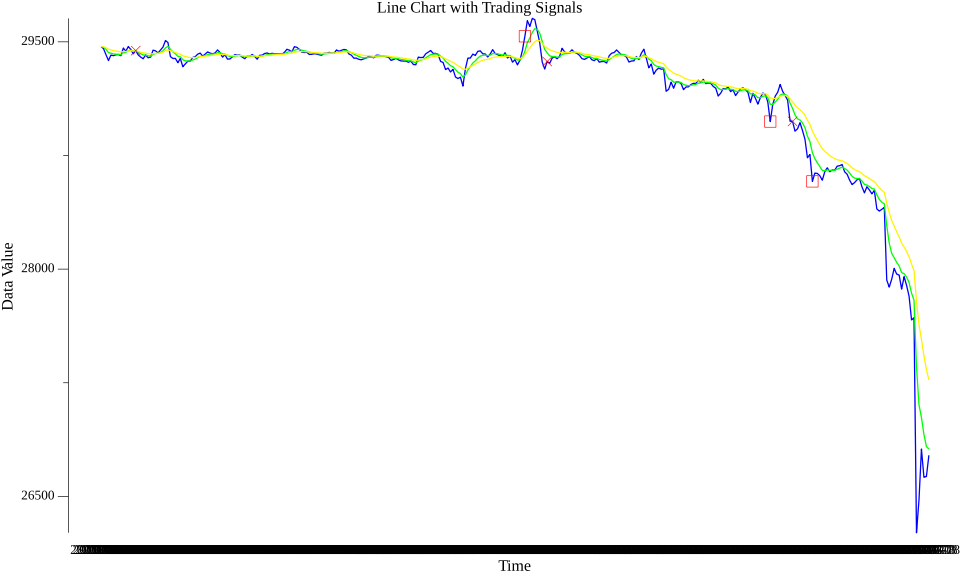
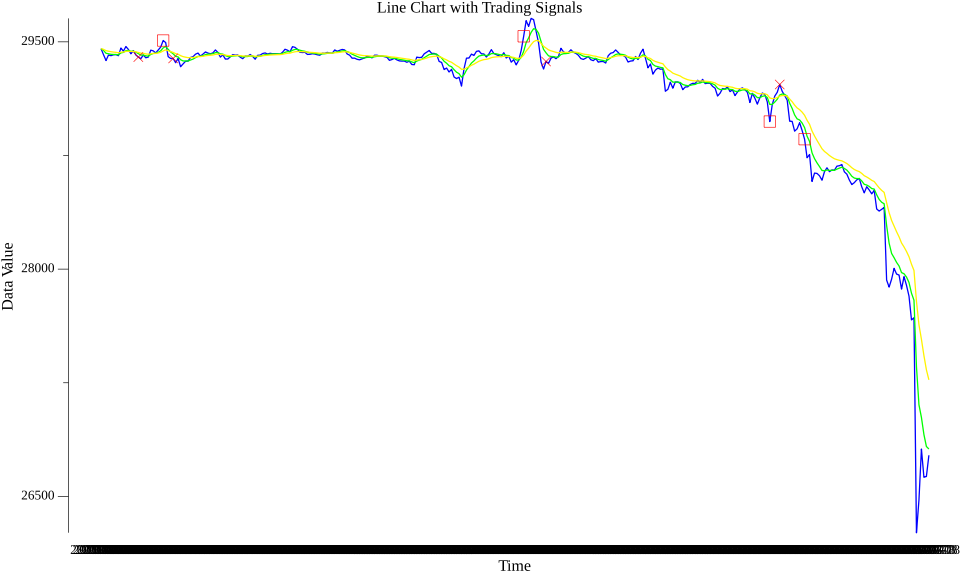
intro StopLossTriger Buy Str

Changed region(s): [[0.2812, 0.0312, 0.75, 0.1562], [0.75, 0.1562, 0.9375, 0.4375], [0.0938, 0.0625, 0.2812, 0.125]]

diff --git a/strategies/strategies.go b/strategies/strategies.go
@@ -47,6 +47,7 @@ type TradingSystem struct {
 	TradeProfitLoss float64
 	TradeCount int
 	EnableStoploss bool
+	StopLossTrigered bool
 	// StopLossRecover        float64
 	// RiskFactor 			   float64
 }
@@ -370,6 +371,7 @@ func (ts *TradingSystem) RiskManagement(md *model.AppData) string {
 
 		// Mark that we are no longer in a trade.
 		ts.InTrade = false
+		ts.StopLossTrigered = true
 		resp := fmt.Sprintf("- SELL-StopLoss at %v Quant: %.8f, QBal: %.8f, BBal: %.8f, TotalP&L %.2f TradeP&L: %.8f PosPcent: %.8f DataPt: %d\n",
 			ts.CurrentPrice, ts.EntryQuantity, ts.QuoteBalance, ts.BaseBalance, md.TotalProfitLoss, ts.TradeProfitLoss, md.RiskPositionPercentage, ts.DataPoint)
 		return resp
@@ -453,12 +455,13 @@ func (ts *TradingSystem) TechnicalAnalysis(md *model.AppData) (buySignal, sellSi
 				count++
 				ts.Container1 = shortEMA
 				ts.Container2 = longEMA
-				// diff_1 := math.Abs(shortEMA[ts.DataPoint-1] - longEMA[ts.DataPoint-1])
-				// diff := math.Abs(shortEMA[ts.DataPoint] - longEMA[ts.DataPoint])
-				// buySignal = buySignal || (diff_1 > diff) && (shortEMA[ts.DataPoint] < longEMA[ts.DataPoint]) && (shortEMA[ts.DataPoint-1] < longEMA[ts.DataPoint-1])
-				// sellSignal = sellSignal || (shortEMA[ts.DataPoint-2] < longEMA[ts.DataPoint-2] && shortEMA[ts.DataPoint-1] > longEMA[ts.DataPoint-1] && shortEMA[ts.DataPoint] > longEMA[ts.DataPoint])
-				buySignal = buySignal || (shortEMA[ts.DataPoint-2] > longEMA[ts.DataPoint-2] && shortEMA[ts.DataPoint-1] < longEMA[ts.DataPoint-1] && shortEMA[ts.DataPoint] < longEMA[ts.DataPoint])
-				sellSignal = sellSignal || (shortEMA[ts.DataPoint-2] < longEMA[ts.DataPoint-2] && shortEMA[ts.DataPoint-1] > longEMA[ts.DataPoint-1] && shortEMA[ts.DataPoint] > longEMA[ts.DataPoint])
+				if ts.EnableStoploss && ts.StopLossTrigered {
+					buySignal = buySignal || (shortEMA[ts.DataPoint-1] < longEMA[ts.DataPoint-1] && shortEMA[ts.DataPoint] >= longEMA[ts.DataPoint])
+					sellSignal = sellSignal || (shortEMA[ts.DataPoint-1] >= longEMA[ts.DataPoint-1] && shortEMA[ts.DataPoint] < longEMA[ts.DataPoint])
+				}else{
+					buySignal = buySignal || (shortEMA[ts.DataPoint-2] > longEMA[ts.DataPoint-2] && shortEMA[ts.DataPoint-1] < longEMA[ts.DataPoint-1] && shortEMA[ts.DataPoint] < longEMA[ts.DataPoint])
+					sellSignal = sellSignal || (shortEMA[ts.DataPoint-2] < longEMA[ts.DataPoint-2] && shortEMA[ts.DataPoint-1] > longEMA[ts.DataPoint-1] && shortEMA[ts.DataPoint] > longEMA[ts.DataPoint])
+				}
 			}
 			if strings.Contains(md.Strategy, "RSI") && ts.DataPoint > 0 && ts.DataPoint <= len(rsi) {
 				count++
